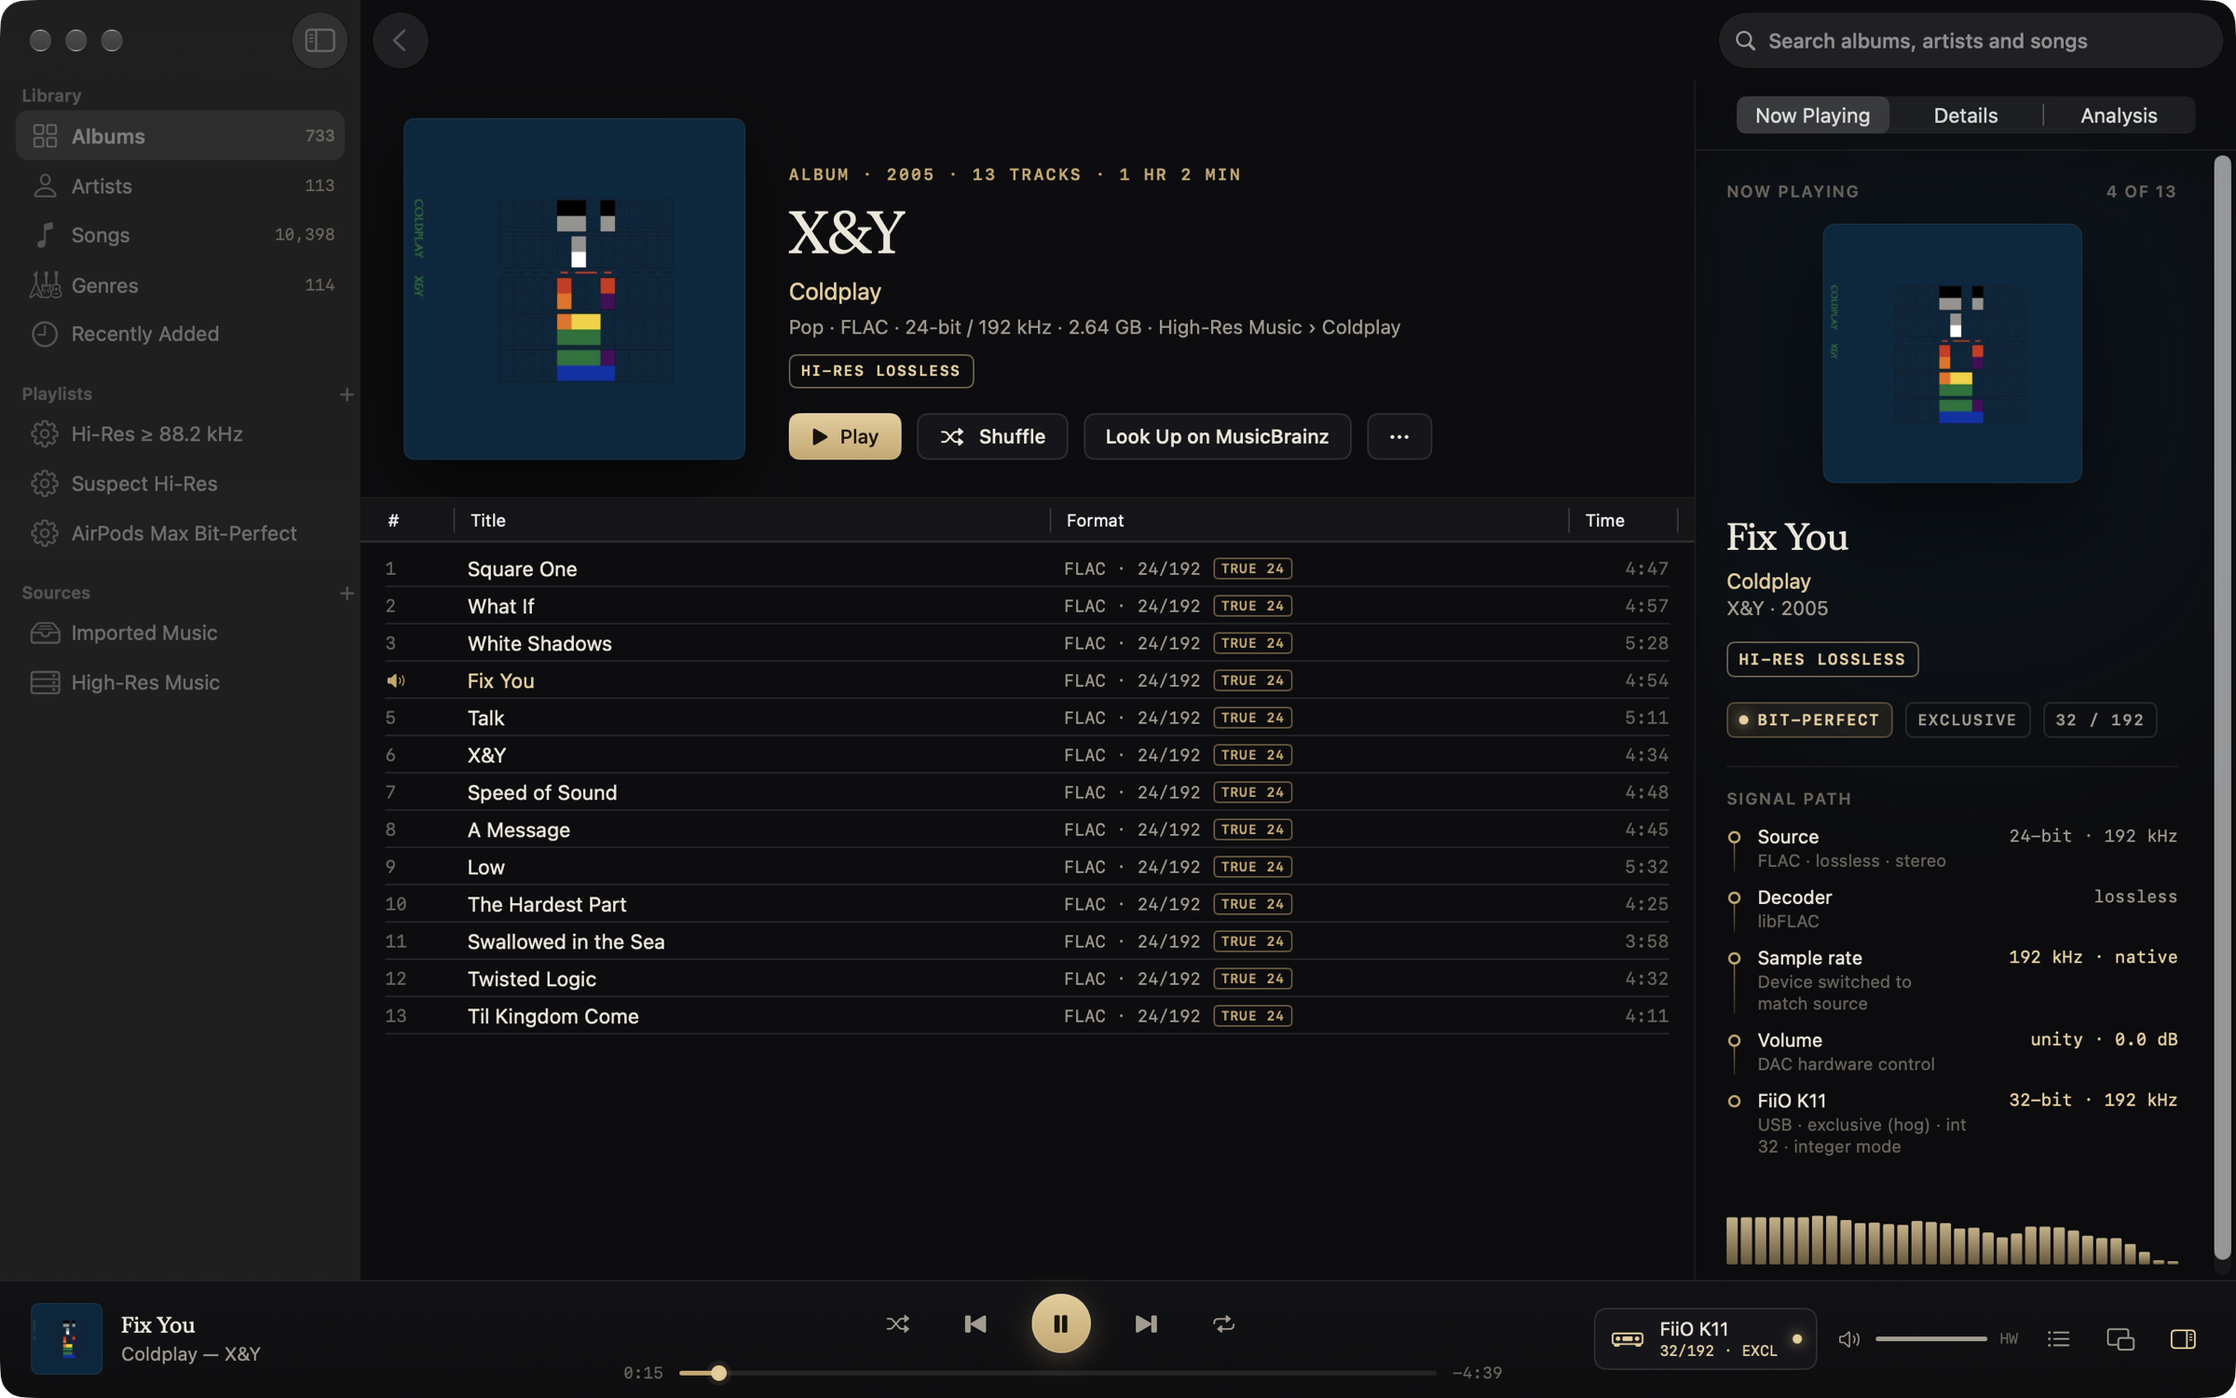
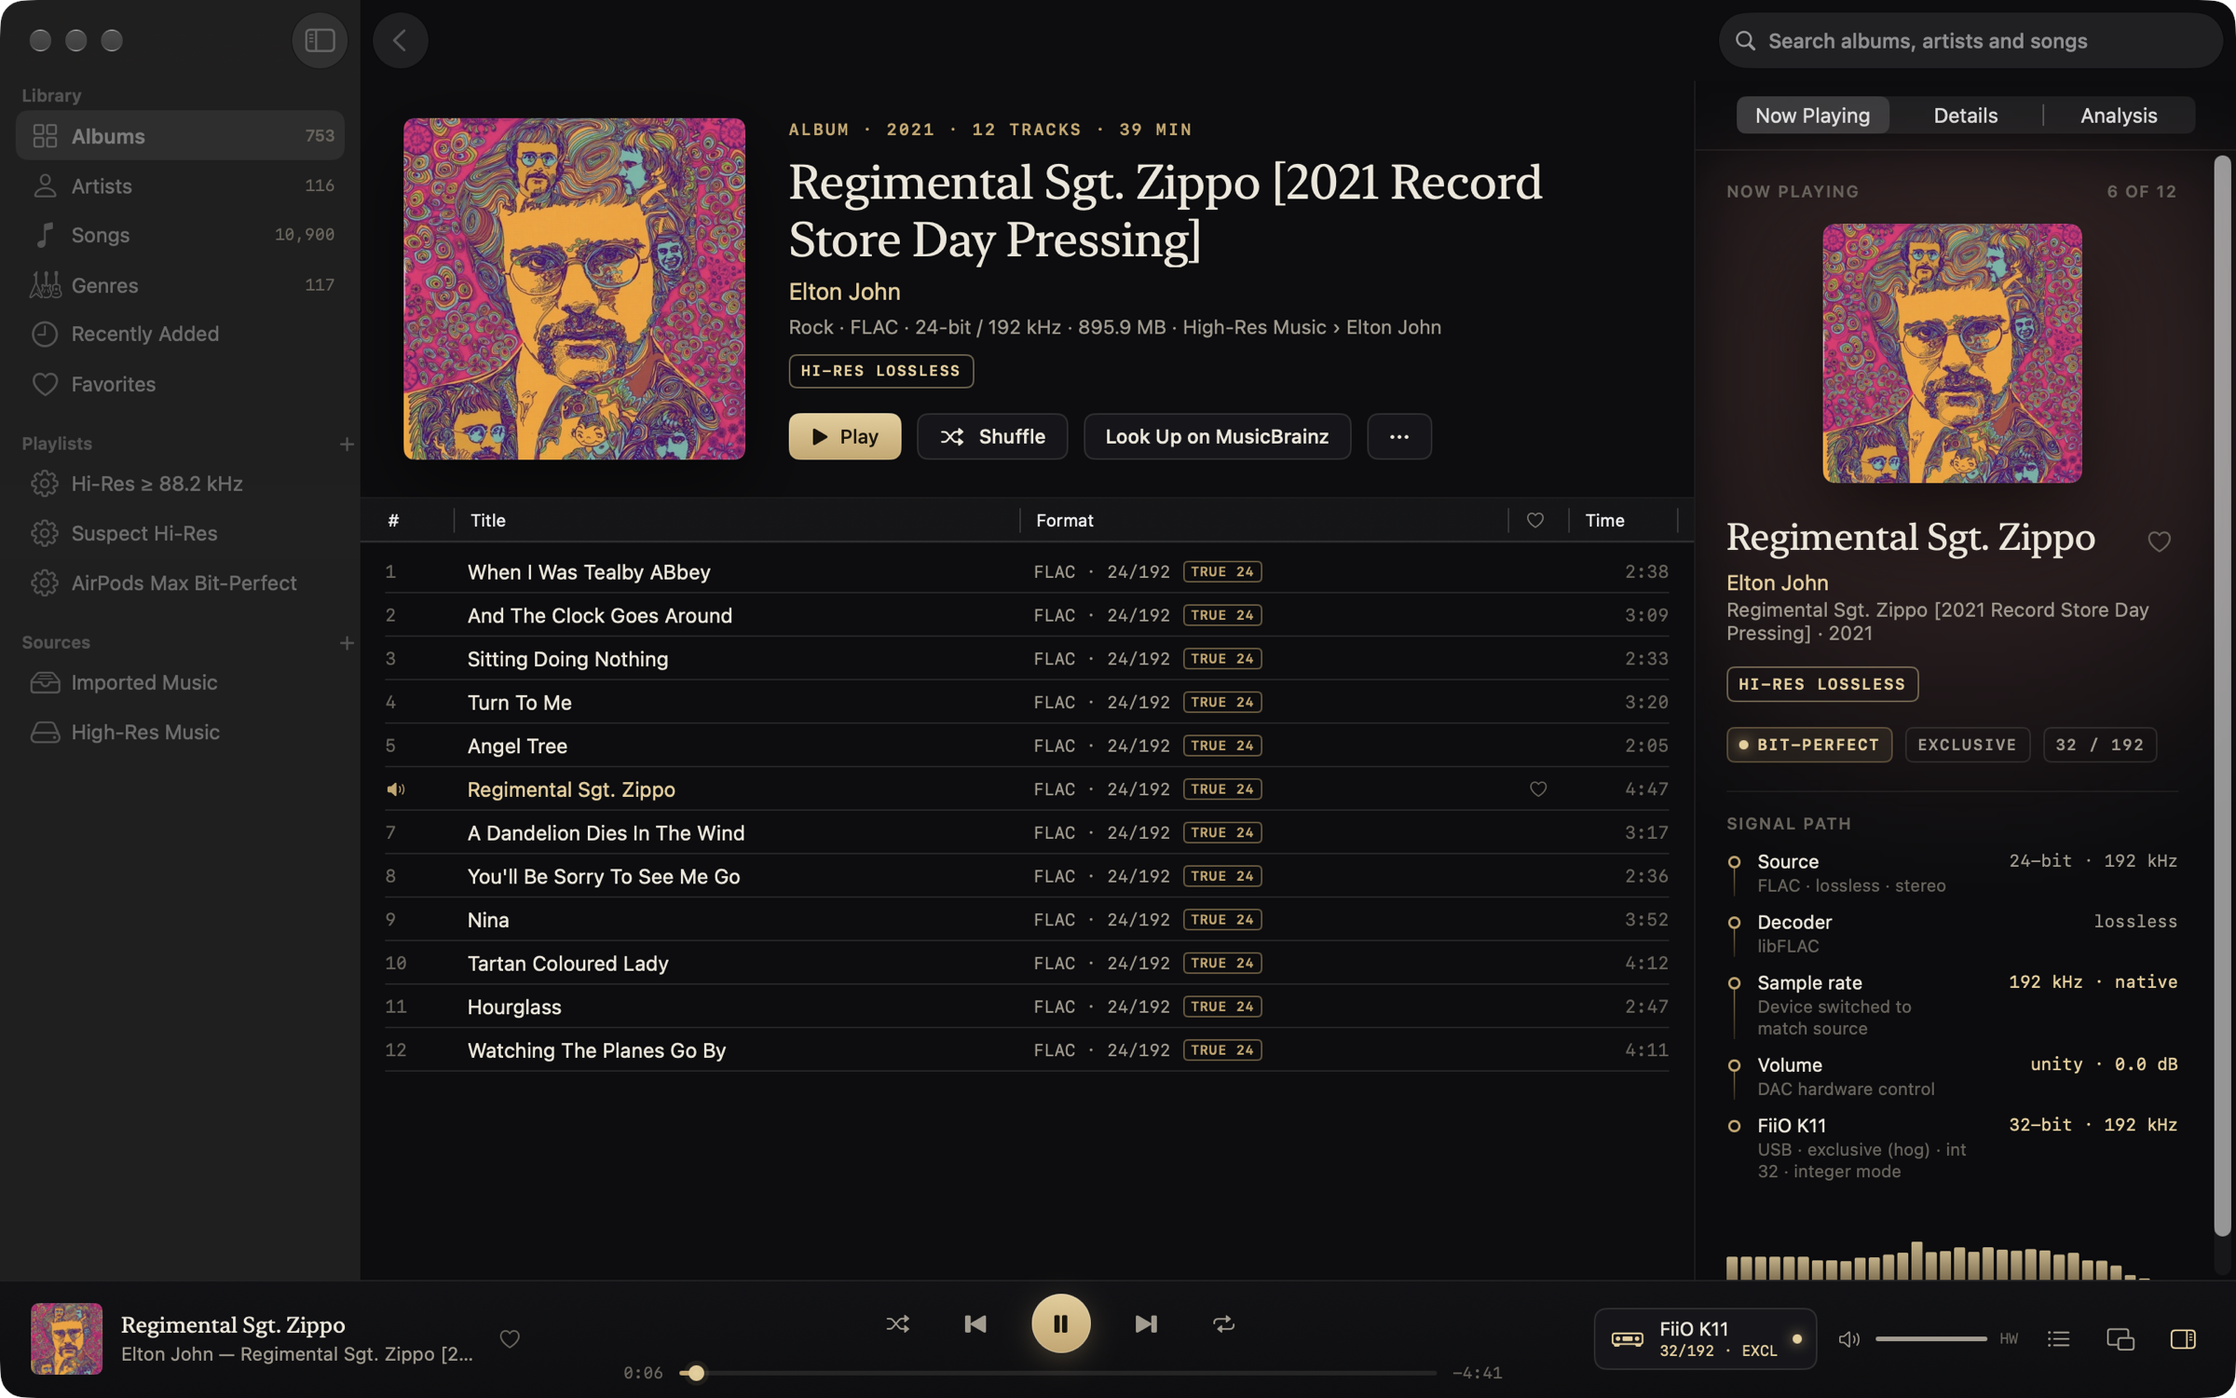
Screenshots retaken with Elton John, Oasis and Pink Floyd; the fake-hi-res image is captioned
The hero, DSD, multichannel, genres, search and mini-player screenshots are retaken on 0.6.3 with
albums from the same library that show the range better, and without Coldplay:

- Hero: Elton John's Regimental Sgt. Zippo (2021 RSD pressing), 24-bit / 192 kHz FLAC, bit-perfect on
  a FiiO K11 in exclusive and integer mode.
- DSD: Oasis's (What's the Story) Morning Glory? SACD, DSD64 over DoP at 176.4 kHz on the K11, with
  the stereo and 5.1 versions listed once.
- Multichannel page: Elton John (Tumbleweed Connection, Goodbye Yellow Brick Road, the DTS sampler),
  Oasis, Brothers in Arms, Dark Side of the Moon and the other Pink Floyd SACDs, DSD64 to 24/192.
- Search: "elton" (35 albums, 475 songs). Genres. A mini player on Elton John's Captain Fantastic, 32/96.

The screenshots were taken from an isolated copy of the real library (share detached, favorites
cleared, Coldplay removed) so nothing touched the live library. The tour GIF gains the DSD shot and
its captions no longer say "literally true" or "Catches". The bit-perfect key art's crop moves down
to follow the two-line album title in the inspector. The site images, press thumbnails and the
social cards are regenerated from the new files (the detail crop was recovered exactly, PSNR 49.8 dB).

The fake-hi-res screenshot is kept and captioned: the file is an unofficial "enhanced" copy, not an
official release. Alt texts across the README and site name the new albums.
[…]

diff --git a/site/index.html b/site/index.html
@@ -21,12 +21,12 @@
 <meta property="og:image:type" content="image/png">
 <meta property="og:image:width" content="1200">
 <meta property="og:image:height" content="630">
-<meta property="og:image:alt" content="Vespertine's Now Playing panel: Fix You by Coldplay at 24-bit / 192 kHz, marked bit-perfect and exclusive, with its signal path.">
+<meta property="og:image:alt" content="Vespertine's Now Playing panel: Regimental Sgt. Zippo by Elton John at 24-bit / 192 kHz, marked bit-perfect and exclusive, with its signal path.">
 <meta name="twitter:card" content="summary_large_image">
 <meta name="twitter:title" content="Vespertine — bit-perfect music player for Mac">
 <meta name="twitter:description" content="Free and open source. Bit-perfect playback, an honest signal path, DSD, Atmos and DTS, and fake hi-res detection.">
 <meta name="twitter:image" content="https://szeremeta1.github.io/Vespertine/assets/og-wide.png">
-<meta name="twitter:image:alt" content="Vespertine's Now Playing panel: Fix You by Coldplay at 24-bit / 192 kHz, marked bit-perfect and exclusive, with its signal path.">
+<meta name="twitter:image:alt" content="Vespertine's Now Playing panel: Regimental Sgt. Zippo by Elton John at 24-bit / 192 kHz, marked bit-perfect and exclusive, with its signal path.">
 <script type="application/ld+json">
 {
   "@context": "https://schema.org",
@@ -79,7 +79,7 @@
       <p class="fine">macOS 26 Tahoe or later · Apple silicon &amp; Intel · signed, notarized, updates itself · <span class="js-version mono">GPL-3.0</span></p>
     </div>
     <div class="hero-shot">
-      <img src="assets/bit-perfect-fiio-24-192.jpg" alt="Vespertine playing Coldplay's X&amp;Y at 24-bit / 192 kHz, bit-perfect on a FiiO K11, with the signal path showing each stage" width="2000" height="1250">
+      <img src="assets/bit-perfect-fiio-24-192.jpg" alt="Vespertine playing Elton John's Regimental Sgt. Zippo at 24-bit / 192 kHz, bit-perfect on a FiiO K11, with the signal path showing each stage" width="2000" height="1250">
       <p class="caption">A 24-bit / 192 kHz FLAC, bit-perfect on a FiiO K11: the DAC was switched to the file's rate, and the signal path shows every stage.</p>
     </div>
     <div class="badges" aria-label="Signal path states">
@@ -152,7 +152,7 @@
             <li><b>Hands your DAC back</b> at the rate and depth it had before, when Vespertine quits.</li>
           </ul>
         </div>
-        <img class="shot" src="assets/dsd-native-dop-detail.jpg" alt="Michael Jackson's Thriller as DSD64 over DoP to a FiiO K11" loading="lazy" width="1300" height="1100">
+        <img class="shot" src="assets/dsd-native-dop-detail.jpg" alt="Oasis's (What's the Story) Morning Glory? from its SACD as DSD64 over DoP to a FiiO K11" loading="lazy" width="1300" height="1100">
       </div>
 
       <div class="feature flip">
@@ -166,6 +166,7 @@
             <li><b>Lossy origin</b>: MP3 or AAC transcoded to FLAC</li>
             <li><b>Synthetic high frequencies</b> from SBR or “AI enhancement”</li>
           </ul>
+          <p class="caption" style="text-align: left; margin-top: 4px">The file in this screenshot is an unofficial “enhanced” 24/48 copy from the developer's own collection, not an official release.</p>
           <p><a href="https://github.com/szeremeta1/Vespertine/blob/main/docs/ANALYSIS.md">How the analysis works →</a></p>
         </div>
         <img class="shot" src="assets/fake-hi-res-detection-detail.jpg" alt="The Analysis tab flagging a 24/48 file as a lossy source with synthetic high frequencies, with its long-term spectrum" loading="lazy" width="1300" height="1100">

diff --git a/site/press.html b/site/press.html
@@ -122,7 +122,7 @@
       <div class="grid grid-3">
         <figure>
           <a href="https://raw.githubusercontent.com/szeremeta1/Vespertine/main/docs/screenshots/bit-perfect-fiio-24-192.png"><img src="assets/press/shot-bit-perfect-fiio-24-192.jpg" alt="24-bit / 192 kHz, bit-perfect on a FiiO K11" loading="lazy" width="720" height="450"></a>
-          <figcaption>24-bit / 192 kHz, bit-perfect on a FiiO K11</figcaption>
+          <figcaption>24-bit / 192 kHz, bit-perfect on a FiiO K11: Elton John, Regimental Sgt. Zippo</figcaption>
         </figure>
         <figure>
           <a href="https://raw.githubusercontent.com/szeremeta1/Vespertine/main/docs/screenshots/multichannel-albums.png"><img src="assets/press/shot-multichannel-albums.jpg" alt="Albums filtered to multichannel" loading="lazy" width="720" height="450"></a>
@@ -138,11 +138,11 @@
         </figure>
         <figure>
           <a href="https://raw.githubusercontent.com/szeremeta1/Vespertine/main/docs/screenshots/fake-hi-res-detection.png"><img src="assets/press/shot-fake-hi-res-detection.jpg" alt="A “hi-res” file with synthetic treble" loading="lazy" width="720" height="450"></a>
-          <figcaption>A “hi-res” file with synthetic treble</figcaption>
+          <figcaption>A “hi-res” file with synthetic treble (an unofficial “enhanced” copy from the developer's own collection, not an official release)</figcaption>
         </figure>
         <figure>
           <a href="https://raw.githubusercontent.com/szeremeta1/Vespertine/main/docs/screenshots/dsd-native-dop.png"><img src="assets/press/shot-dsd-native-dop.jpg" alt="DSD64 over DoP" loading="lazy" width="720" height="450"></a>
-          <figcaption>DSD64 over DoP</figcaption>
+          <figcaption>DSD64 over DoP: Oasis, (What's the Story) Morning Glory? from its SACD</figcaption>
         </figure>
         <figure>
           <a href="https://raw.githubusercontent.com/szeremeta1/Vespertine/main/docs/screenshots/genres.png"><img src="assets/press/shot-genres.jpg" alt="Genres" loading="lazy" width="720" height="450"></a>

diff --git a/scripts/make-tour.swift b/scripts/make-tour.swift
@@ -34,7 +34,10 @@ let shots: [Shot] = [
          caption: "Your library, every format: SACD, DTS CDs, 5.1 FLAC, DSD"),
     Shot(file: "docs/screenshots/bit-perfect-fiio-24-192.png", from: full,
          to: CGRect(x: 1290, y: 540, width: 1110, height: 693.75),
-         caption: "BIT-PERFECT appears only when it's literally true"),
+         caption: "BIT-PERFECT appears only when its conditions are met"),
+    Shot(file: "docs/screenshots/dsd-native-dop.png", from: full,
+         to: CGRect(x: 1290, y: 540, width: 1110, height: 693.75),
+         caption: "DSD64 to DSD512, native over DoP on DACs that accept it"),
     Shot(file: "docs/screenshots/stereo-and-surround-versions.png", from: full,
          to: CGRect(x: 1080, y: 140, width: 1320, height: 825),
          caption: "Stereo and 5.1 listed once; it plays the one your output suits"),
@@ -43,7 +46,7 @@ let shots: [Shot] = [
          caption: "A DTS 5.1 CD as head-tracked Spatial Audio on AirPods Max"),
     Shot(file: "docs/screenshots/fake-hi-res-detection.png", from: CGRect(x: 1340, y: 170, width: 1060, height: 662.5),
          to: CGRect(x: 1340, y: 560, width: 1060, height: 662.5),
-         caption: "Catches upsampled, lossy-sourced and “AI-enhanced” files"),
+         caption: "Flags upsampled, lossy-sourced and “AI-enhanced” files"),
 ]
 let images = shots.map { image($0.file) }
 let lockup = image("docs/brand/logo.png")   // crescent + "vespertine", with its clear space

diff --git a/site/privacy.html b/site/privacy.html
@@ -21,12 +21,12 @@
 <meta property="og:image:type" content="image/png">
 <meta property="og:image:width" content="1200">
 <meta property="og:image:height" content="630">
-<meta property="og:image:alt" content="Vespertine's Now Playing panel: Fix You by Coldplay at 24-bit / 192 kHz, marked bit-perfect and exclusive, with its signal path.">
+<meta property="og:image:alt" content="Vespertine's Now Playing panel: Regimental Sgt. Zippo by Elton John at 24-bit / 192 kHz, marked bit-perfect and exclusive, with its signal path.">
 <meta name="twitter:card" content="summary_large_image">
 <meta name="twitter:title" content="Privacy — Vespertine">
 <meta name="twitter:description" content="Vespertine collects nothing. What the app and this website connect to, and why.">
 <meta name="twitter:image" content="https://szeremeta1.github.io/Vespertine/assets/og-wide.png">
-<meta name="twitter:image:alt" content="Vespertine's Now Playing panel: Fix You by Coldplay at 24-bit / 192 kHz, marked bit-perfect and exclusive, with its signal path.">
+<meta name="twitter:image:alt" content="Vespertine's Now Playing panel: Regimental Sgt. Zippo by Elton John at 24-bit / 192 kHz, marked bit-perfect and exclusive, with its signal path.">
 <link rel="stylesheet" href="style.css?v=dev">
 </head>
 <body>

diff --git a/site/terms.html b/site/terms.html
@@ -21,12 +21,12 @@
 <meta property="og:image:type" content="image/png">
 <meta property="og:image:width" content="1200">
 <meta property="og:image:height" content="630">
-<meta property="og:image:alt" content="Vespertine's Now Playing panel: Fix You by Coldplay at 24-bit / 192 kHz, marked bit-perfect and exclusive, with its signal path.">
+<meta property="og:image:alt" content="Vespertine's Now Playing panel: Regimental Sgt. Zippo by Elton John at 24-bit / 192 kHz, marked bit-perfect and exclusive, with its signal path.">
 <meta name="twitter:card" content="summary_large_image">
 <meta name="twitter:title" content="Terms — Vespertine">
 <meta name="twitter:description" content="Vespertine is free software under the GNU General Public License 3.0.">
 <meta name="twitter:image" content="https://szeremeta1.github.io/Vespertine/assets/og-wide.png">
-<meta name="twitter:image:alt" content="Vespertine's Now Playing panel: Fix You by Coldplay at 24-bit / 192 kHz, marked bit-perfect and exclusive, with its signal path.">
+<meta name="twitter:image:alt" content="Vespertine's Now Playing panel: Regimental Sgt. Zippo by Elton John at 24-bit / 192 kHz, marked bit-perfect and exclusive, with its signal path.">
 <link rel="stylesheet" href="style.css?v=dev">
 </head>
 <body>

diff --git a/scripts/brand/keyart/main.swift b/scripts/brand/keyart/main.swift
@@ -18,7 +18,7 @@ let features = [
     Feature(id: "bit-perfect", shot: "bit-perfect-fiio-24-192",
             headline: "Every sample, untouched.",
             sub: "Vespertine plays your music bit-perfect, switches your DAC to each file’s own sample rate, and shows you the proof.",
-            chips: [("● BIT-PERFECT", .brass), ("EXCLUSIVE", .plain), ("24-BIT · 192 kHz", .plain)], focus: CGRect(x: 1826, y: 800, width: 564, height: 590)),
+            chips: [("● BIT-PERFECT", .brass), ("EXCLUSIVE", .plain), ("24-BIT · 192 kHz", .plain)], focus: CGRect(x: 1826, y: 826, width: 564, height: 590)),
     Feature(id: "stereo-and-surround", shot: "stereo-and-surround-versions",
             headline: "Stereo or surround, on its own.",
             sub: "When an album comes in both, Vespertine plays the version your output can carry: 5.1 for surround and Spatial Audio, stereo for a stereo DAC.",

diff --git a/README.md b/README.md
@@ -58,12 +58,12 @@ Vespertine plays almost anything you have: FLAC, ALAC, WAV and AIFF up to 32-bit
 ### Bit-perfect, all the way up
 The device follows every track's native format, and **BIT-PERFECT** appears only when nothing touches the samples. Here a 24-bit / 192 kHz FLAC plays untouched on a FiiO K11. With exclusive access, **integer mode** sends 32-bit integers straight to the DAC, so even 32-bit recordings arrive exactly as stored.
 
-![Coldplay's X&Y at 24-bit / 192 kHz playing bit-perfect on a FiiO K11](docs/screenshots/bit-perfect-fiio-24-192.png)
+![Elton John's Regimental Sgt. Zippo at 24-bit / 192 kHz playing bit-perfect on a FiiO K11, with its signal path](docs/screenshots/bit-perfect-fiio-24-192.png)
 
 ### Native DSD, at any rate
 DSD64, DSD128, DSD256 and DSD512, in DSF or DSDIFF. On a DAC that takes DoP, the DSD goes out untouched in DoP frames, and the meters and spectrum still show the music. Anywhere else it's converted to high-rate PCM, and the signal path says so.
 
-![Michael Jackson's Thriller as DSD64 over DoP to a FiiO K11, with a DSD 64 badge](docs/screenshots/dsd-native-dop.png)
+![Oasis's (What's the Story) Morning Glory? from its SACD as DSD64 over DoP to a FiiO K11, with a DSD 64 badge](docs/screenshots/dsd-native-dop.png)
 
 ### Surround, Dolby and DTS, wherever you listen
 5.1 and 7.1 in FLAC, DSD, Dolby TrueHD, DTS-HD Master Audio and even DTS CDs (which players that don't recognize them turn into full-scale noise) play as head-tracked Spatial Audio on AirPods, channel for channel on a multichannel interface or receiver, or folded down on a stereo DAC. **Dolby Atmos** in Dolby Digital Plus is rendered by macOS's own Atmos renderer, just as in Apple Music. The Albums page filters by format (FLAC, WAV/AIFF, ALAC, DSD, **Dolby & DTS**, lossy, 24-bit, 88.2 kHz and up, multichannel), so every surround album is one click away.
@@ -80,6 +80,8 @@ Upsampled, padded, lossy-origin and "AI-enhanced" files are flagged, with the ev
 
 ![The Analysis tab flagging a track as having synthetic high frequencies, with its long-term spectrum](docs/screenshots/fake-hi-res-detection.png)
 
+<sub>The file in this screenshot is an unofficial “enhanced” 24/48 copy from the developer's own collection, not an official release. To see a verdict on files you can regenerate, [make a fake of your own](docs/ANALYSIS.md#reproducing).</sub>
+
 ### Browse like Apple Music
 Albums, artists, songs and **genres**, with Genre, Decade and format filters. Messy tags are handled: "Hip-Hop" and "hip hop" are one genre, multi-genre tags count under each, and localized genre names are merged.
 
@@ -88,7 +90,7 @@ Albums, artists, songs and **genres**, with Genre, Decade and format filters. Me
 ### Search finds everything
 Artists, albums (by title, artist, genre or year) and songs, in one place. Every word you type has to match, ignoring case and accents.
 
-![Searching "fleetwood": the artist, 18 albums and 265 songs](docs/screenshots/search.png)
+![Searching "elton": the artist, 35 albums and 475 songs](docs/screenshots/search.png)
 
 ### Smart playlists, lossless on AirPods Max
 Rules use the units shown everywhere else (48 kHz, 24-bit), so "every 24-bit / 48 kHz track" is one rule away. AirPods Max on USB-C are recognized as a lossless 24-bit / 48 kHz device, so that playlist plays bit-perfect on them, and the Digital Crown and volume keys still work.
